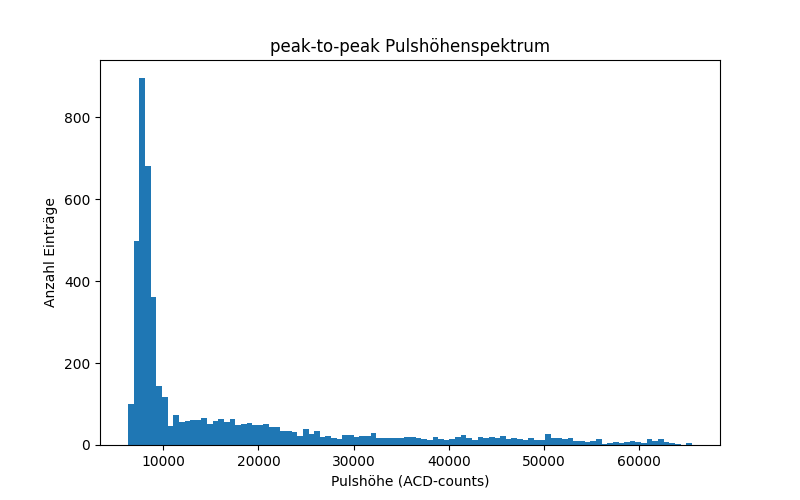
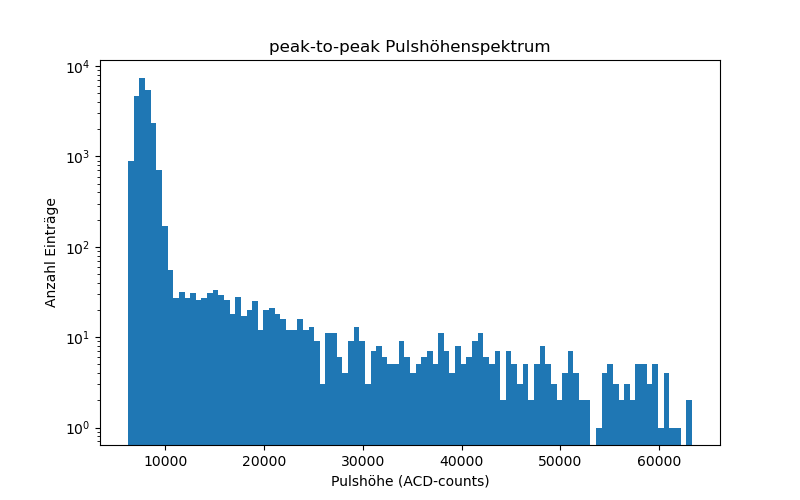
pulse heights for environmenal radioactivity as log-plot

diff --git a/Experimente/data/PulseHeight.py b/Experimente/data/PulseHeight.py
@@ -38,7 +38,7 @@ else:
 try:
     ph_data = np.loadtxt(fname, skiprows=1, usecols=(2), delimiter=",", unpack=True)
 except Exception as e:
-    print(" no input file given - abort")
+    print(" Problem reading input file - abort ", str(e))
     sys.exit(1)
 
 # -*- create figure a show histogram
@@ -50,5 +50,7 @@ ax.hist(ph_data, Nbins)
 ax.set_ylabel("Anzahl Einträge")
 ax.set_xlabel("Pulshöhe (ACD-counts)")
 ax.set_title("peak-to-peak Pulshöhenspektrum")
+# set logarithmic scale
+ax.set_yscale("log")
 
 plt.show()

diff --git a/Experimente/DIY-Teilchendetektor.md b/Experimente/DIY-Teilchendetektor.md
@@ -187,8 +187,8 @@ Schaltfläche "End" in der grafischen Benutzeroberfläche. Starten Sie es dann e
 höheren Triggerpegel, wobei Sie diesmal die Ereignisanzeige aktiviert lassen:  
    > `python3 scGammaDetector.py -l 1500`  
 
-Sie sollten nun keine Signale sehen - es sei denn, Sie erzeugen ein lautes Geräusch, dessen Verlauf
-dann in der Ereignisanzeige angezeigt wird.  
+Sie sollten nun keine Signale sehen - es sei denn, Sie erzeugen ein lautes Geräusch, dessen
+Verlauf dann in der Ereignisanzeige angezeigt wird.  
 *Anmerkung*: die gleichzeitige animierte Anzeige von Ereignisdarstellung und Oszillogramm
 funktioniert unter MS Windows nicht stabil; unter Linux können problemlos beide Anzeigen
 aktiviert werden:  `python3 scGammaDetector.py -o -l 1500`
@@ -255,8 +255,8 @@ kann man eine ungefähre Kalibration vornehmen:
 
 Eine Beispielmessung der Umgebungsaktivität ist in der Grafik unten gezeigt.
 
-![Abb. 3: Darstellung der Zahl der Ereignisse in Intervallen von 60 s Dauer.](
-images/EnvironmentRate.png)
+![Abb. 3: Darstellung der Zahl der Ereignisse in Intervallen von 60 s Dauer bei einer
+Dosisrate von 0,085 µSv/h.](images/EnvironmentRate.png)
 
 Wenn man also hinreichend lange Messzeiten vorsieht, sind mit dem Selbstbaudetektor  
 durchaus Studien zur Radioaktivität in verschiedenen Umgebungen machbar. Der
@@ -268,41 +268,47 @@ elektrisch geladenen Luftballons angereicherte Zerfallsprodukte von Radon sind
 nachweisbar. 
 
 
-#### Pulshöhenspktrum
+#### Pulshöhenspektrum
 
-Die Aufzeichnung von detektierten Impulsen wird mit der Option `-f <Dateiname>`
+Zur statistischen Auswertung der Pulshöhen dienen die in einer Datei während der
+Datennahme gespeicherten Daten. Die Aufzeichnung wird mit der Option `-f <Dateiname>`
 eingeschaltet; für jedes detektierte Signal werden eine fortlaufend inkrementierte
 Ereignisnummer, die Zeit des Auftretens in Sekunden seit Programmstart und die
-Impulshöhe in ADC-Counts in der Datei gespeichert. In einer Offline-Analyse kann
-ein Impulshöhenspektrum, d. h. die Häufigkeit des Auftretens von Impulshöhen in
-einem bestimmten Intervall, aus bei niedriger Triggerschwelle aufgezeichneten 
-Daten abgeleitet werden.
-
-Ein solches Spektrum der peak-to-peak Pulshöhen ist in der Abbildung unten gezeigt.
-Es wurde mit einer solchen Lautstärkeeinstellung aufgezeichnet, dass die Triggerschwelle noch innerhalb der Rauschsignale lag. 
-
-![Abb. 4: Häufigkeitsverteilung der Pulshöhen.](images/PulseHeights.png)
+Pulshöhe in ADC-Counts in der Datei gespeichert. Eine solche Datei enthält die Spalten  
+  > `event_numer, event_time[s], pulse_height[adc]`
 
 
-Man sieht eine große Anzahl von Impulsen knapp oberhalb der Triggerschwelle,
-die bei größeren Pulshöhen schnell abfällt. Ab etwa 10000 ADC-counts sieht man
-die flache Verteilung der von den Gammas aus der radioaktiven Probe erzeugten
-Signale. 
+Zur Darstellung des Spektrums der Pulshöhen, d. h. der Häufigkeit des Auftretens 
+von Pulshöhen in einem bestimmten Intervall, wird nur die dritte Spalte verwendet. 
 
-Ein solches Spektrum kann auch ohne radioaktive Quelle nur mit Umgebungsstrahlung 
-erzeugt werden. Dann gibt es klarerweise deutlich weniger Einträge bei großen
-Pulshöhen, der starke Abfall und die Grenze zwischen Rauschen und echten Signalen
-ist aber auch dann deutlich sichtbar. 
+Das Ergebnis einer Messung mit Umgebungsradioaktivität ist in der Abbildung unten gezeigt. 
+Dabei wurde die Lautstärkeeinstellung so gewählt, dass die Triggerschwelle noch innerhalb
+des Bereichs der Rauschsignale lag. Die Pulshöhen sind definiert als die Differenz 
+zwischen dem maximalen und dem minimalen Wert der ADC-counts im Signalbereich 
+("peak-to-peak" Pulshöhen).  
+
+![Abb. 4: Häufigkeitsverteilung der Pulshöhen, erzeugt mit einer Triggerschwelle
+im Bereich der Rauschpulse bei einer Umgebungsaktivität von
+0,085 µSv/h.](images/PulseHeights.png)
+
+In der logarithmischen Darstellung sieht man eine sehr große Anzahl von Pulshöhen
+knapp oberhalb der Triggerschwelle, die zu größeren Werten hin schnell abfällt.
+Ab etwa 10000 ADC-counts sieht man die flache Verteilung der von den echten Gammas
+aus der Umgebung verursachten Signale. 
+
+Setzt man die Triggerschwelle oberhalb des Übergangspunkts von der Rausch- zur
+Signalverteilung, so werden Rauschsignale unterdrückt und nur echte Gammas 
+registriert. Die Triggerrate entspricht dann direkt der Rate nachgewiesener Gammas.
+
+Zur Darstellung der Pulshöhenverteilung dient das Python*-Programm `data/PulseHeight.py`.
 
 
 #### Statistik bei radioaktiven Zerfällen
 
 Die Analyse von mit `scGammaDetector.py` aufgezeichneten Gammaquanten aus einer
-kleinen Probe Pechblende ist in der nachstehenden Abbildung gezeigt. Signalpulse
-wurden mit einer Rate von ca. 1,1 HZ registriert. Die Datei
-`GammaStrahlung_Pechblende.csv` enthält ca. 10000 aufgezeichnete Ereignisse
-mit den Spalten  
-  > `event_numer, event_time[s], pulse_height[adc]`
+kleinen Probe Pechblende ist in der nachstehenden Abbildung gezeigt. 
+Signalpulse wurden mit einer Rate von ca. 1,1 HZ registriert. Die Datei
+`GammaStrahlung_Pechblende.csv` enthält ca. 10000 aufgezeichnete Ereignisse.
 
 Ausgewertet wurde nur die mittlere Spalte mit den Zeiten, zu denen Ereignisse
 registriert wurden. Dazu wurde der Python-Code `data/RateAnalysis.py` mit 
